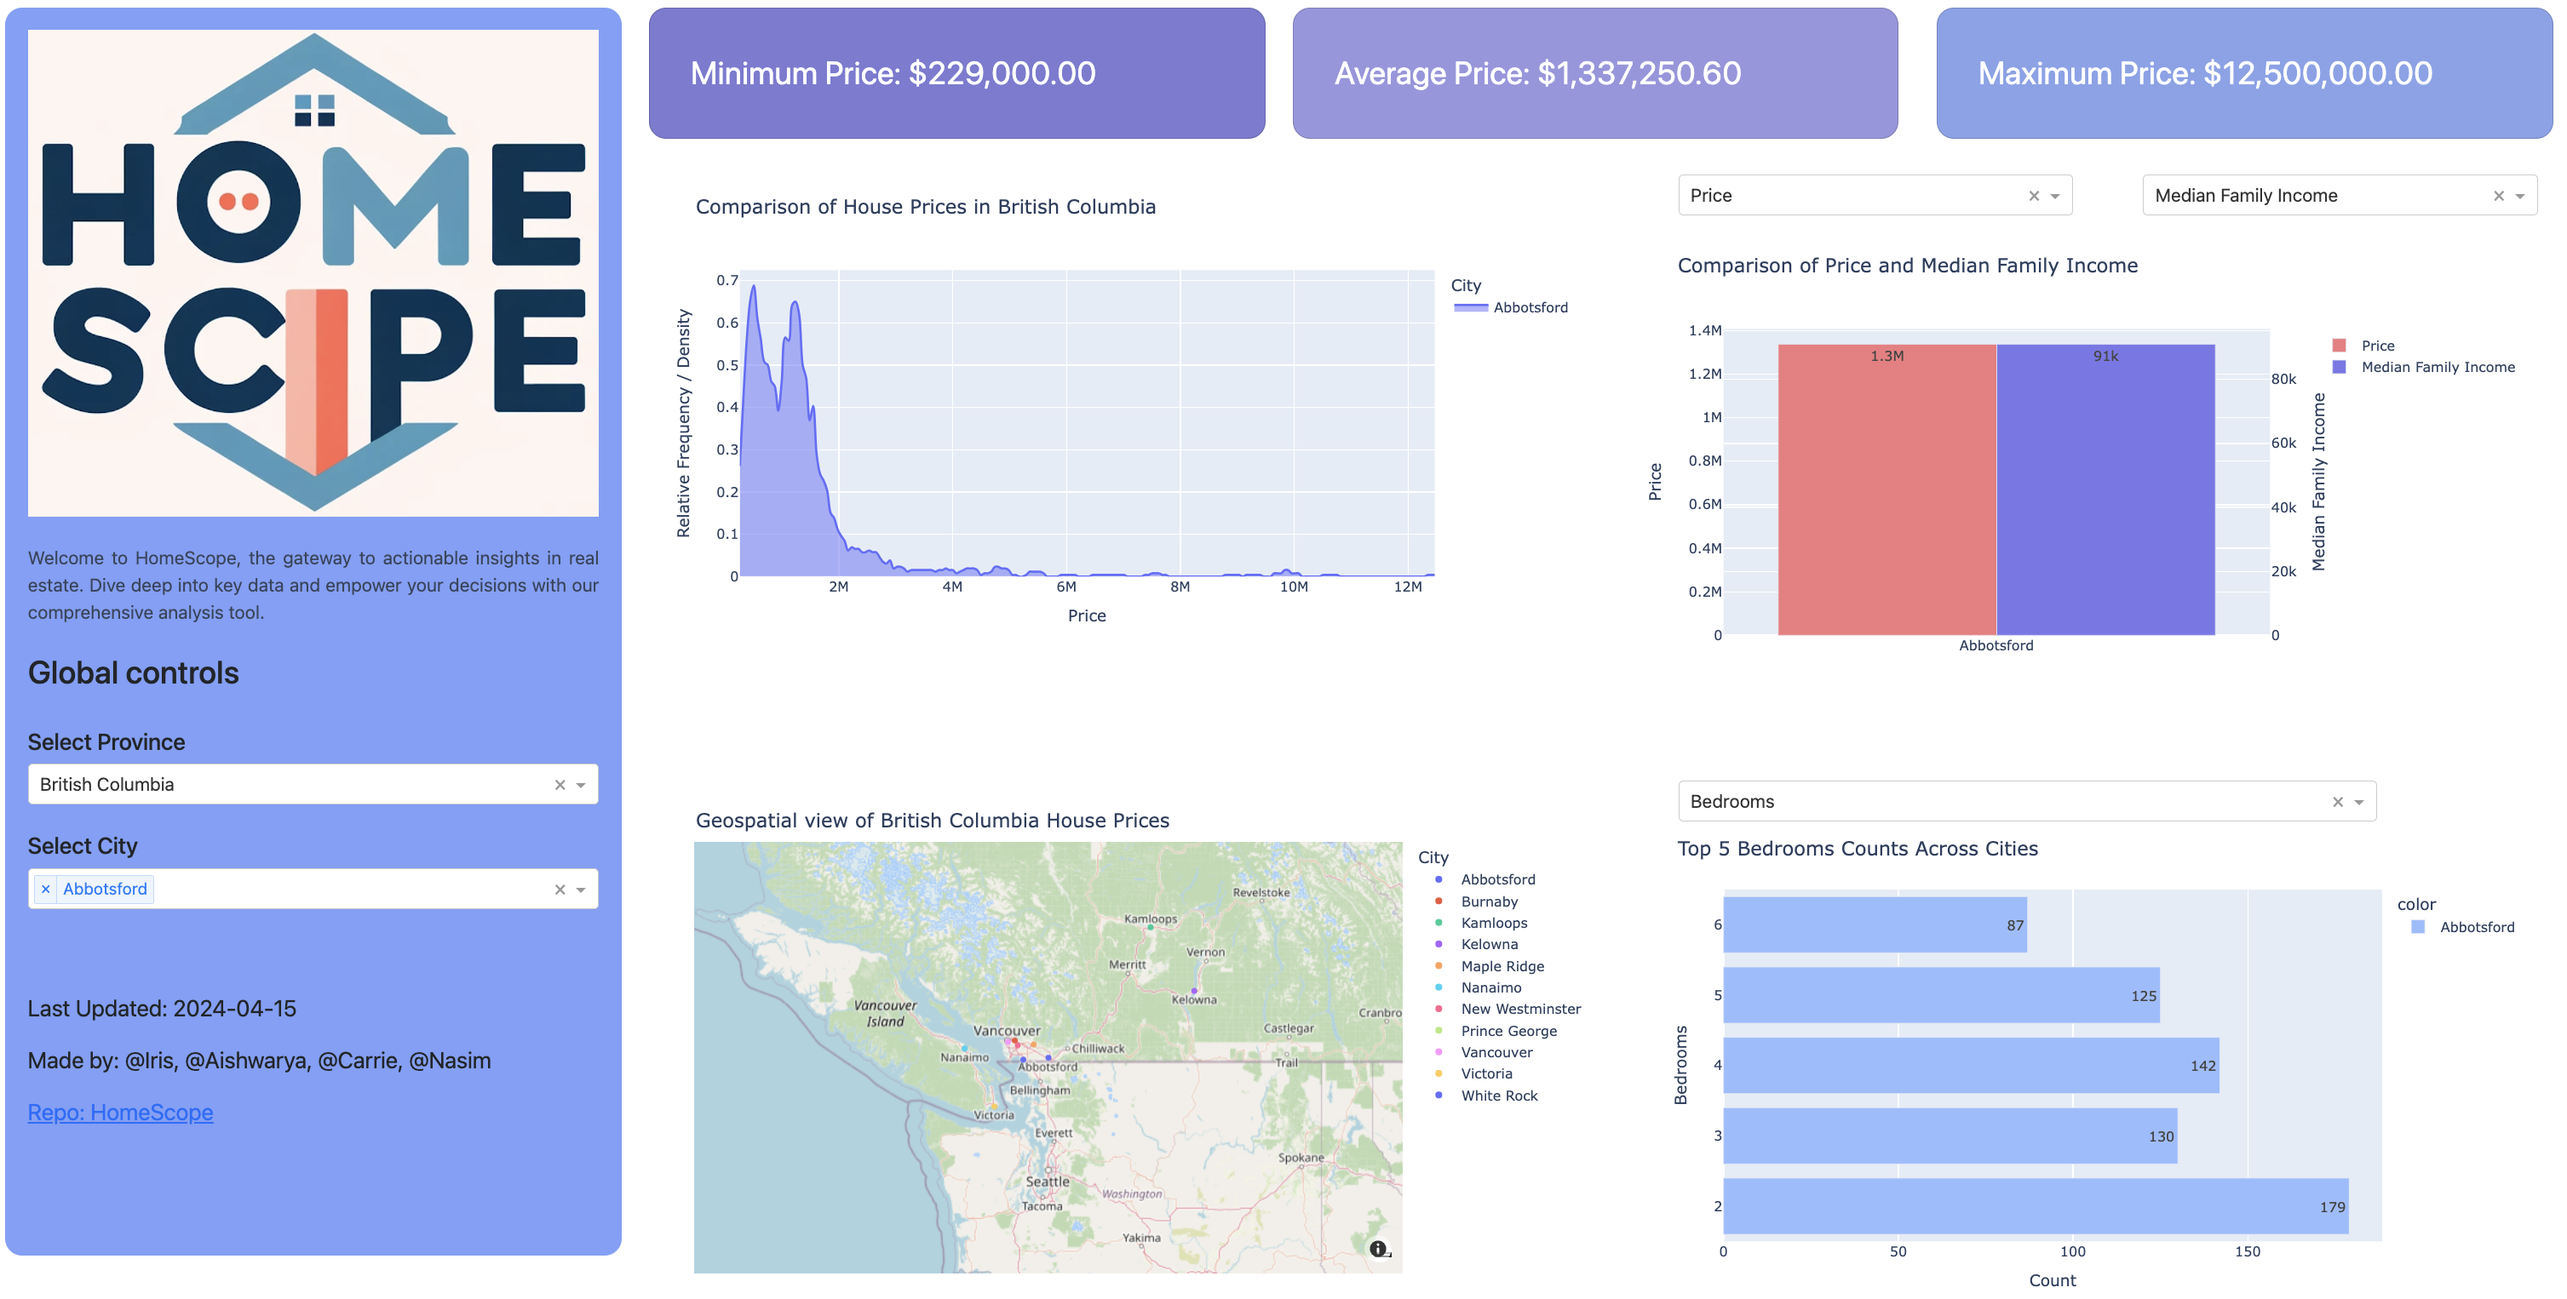
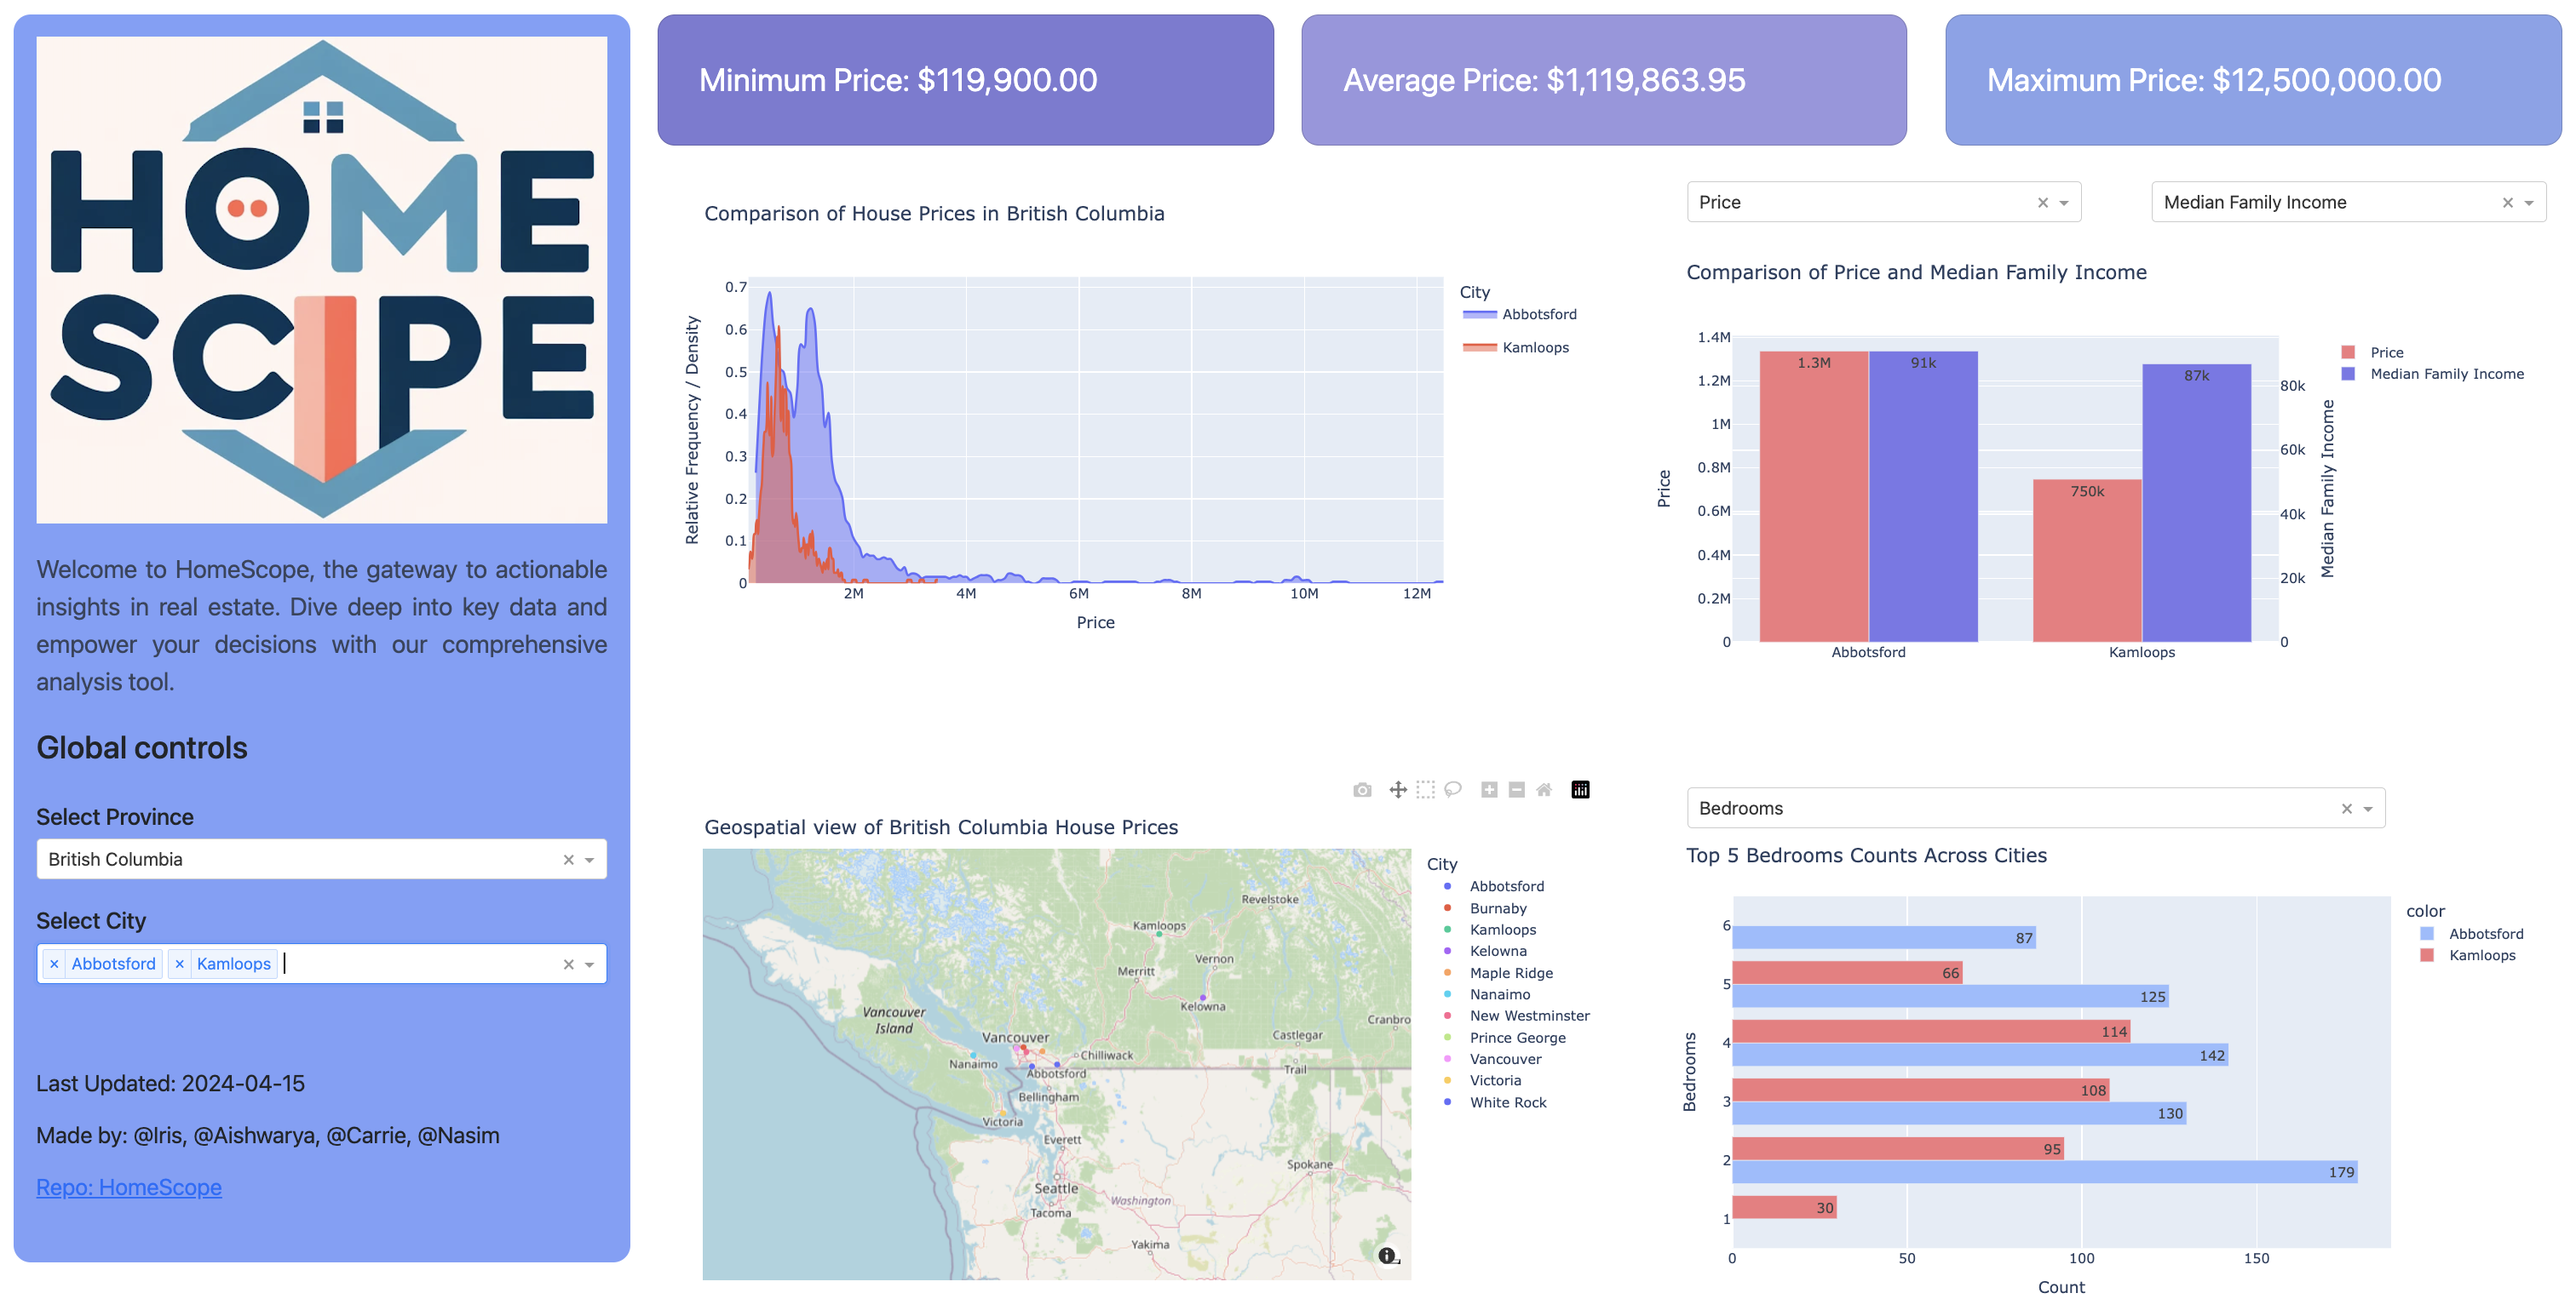
update the demo.gif and update the color style of bar plot

diff --git a/src/assets/custom_styles.css b/src/assets/custom_styles.css
@@ -12,7 +12,7 @@
 }
 
 .text-muted {
-    /* font-size: 18px;  */
+    font-size: 22px; 
     text-align: justify;
 }
 

diff --git a/src/callbacks.py b/src/callbacks.py
@@ -130,7 +130,7 @@ def update_bar_chart(province, cities, var3):
                                  .groupby('City')
                                  .head(5))
 
-    color_seq = ['#98BDFF', '#7DA0FA', '#F3797E', '#7978E9', '#4B49AC']
+    color_seq = ['#98BDFF', '#F3797E', '#7DA0FA', '#7978E9', '#4B49AC']
 
     fig = px.bar(
         y=top_5_per_city[var3], 

diff --git a/README.md b/README.md
@@ -19,7 +19,7 @@ Thank you for visiting the `HomeScope` project repository. This README file is a
 
 <img src="img/Homescope_img.png" width="500"/>
 
-## Who Are We?
+## Who Are We? {#who-are-we}
 
 Our `HomeScope` team, comprised of adept developers and data scientists, is driven by a shared passion for inclusivity and technology. Our expertise in data analysis underpins our commitment to this project.
 
@@ -47,7 +47,7 @@ Our `HomeScope` dashboard is an empowering tool that enables:
 -   Community-driven contributions to our database, fostering growth and inclusivity.
 -   The synthesis of valuable insights to facilitate well-informed real estate decisions.
 
-## What Are We Doing?
+## What Are We Doing? {#what-are-we-doing}
 
 ### The Dashboard
 
@@ -60,7 +60,7 @@ The current iteration of `HomeScope` boasts:
 -   An interactive map to visualize geographical data and price distributions.
 -   Comparative visualizations that convey a thorough market overview.
 
-### Dashboard Design (Milestone2)
+### Dashboard Design (Milestone3)
 
 <img src="img/milestone3.png" width="1000"/>
 
@@ -68,11 +68,11 @@ The current iteration of `HomeScope` boasts:
 
 We are poised to refine `HomeScope` further, enhancing its interactivity and user interface. Our ambitions include the integration of advanced predictive analytics and the expansion of our dataset to encompass global markets.
 
-## Get Support 
+## Get Support {#get-support}
 
 Encountered an issue or have a question? Feel free to [open an issue](#get-support) in this repository, and our team will be happy to assist you.
 
-## Collaboration
+## Collaboration {#collaboration}
 
 Our project is a collaborative endeavor, with each team member playing a pivotal role:
 
@@ -81,11 +81,11 @@ Our project is a collaborative endeavor, with each team member playing a pivotal
 -   [Carrie Yan](https://github.com/carrieyanyi)
 -   [Nasim Ghazanfari Nasrabadi](https://github.com/nassimgha)
 
-## Join Our Journey 
+## Join Our Journey {#join-our-journey}
 
 Dive into `HomeScope` and join us in forging a more transparent and inclusive real estate landscape.
 
-### Data Sources and Licensing 
+### Data Sources and Licensing {#data-sources-and-licensing}
 
 #### Data Sources
 
@@ -95,7 +95,7 @@ Our analysis is anchored in a robust dataset, `Canadian house prices for top cit
 
 The `HomeScope` codebase is MIT licensed, as found in the [LICENSE](LICENSE) in this repository.
 
-## Setup for Local Development 
+## Setup for Local Development {#setup-for-local-development}
 
 To run `HomeScope` locally:
 
@@ -149,11 +149,11 @@ This will launch the application, typically at <http://127.0.0.1:8050/> in your 
 
 Your contributions are what make the open-source community such an amazing place to learn, inspire, and create. Any contributions you make are **greatly appreciated**. Please read our [Contribution Guidelines](CONTRIBUTING.md) for details on our code of conduct and the process for submitting pull requests to us.
 
-## Thank You
+## Thank You {#thank-you}
 
 Thank you so much (Danke schön! Merci beaucoup!) for visiting our project. We hope you'll join us on this exciting journey to empower stakeholders in the real estate sector with HomeScope.
 
-## Glossary
+## Glossary {#glossary}
 
 -   README file: A document introducing an open project to the public and potential contributors, typically including installation, usage, and contribution information.
 -   Repository (or Repo): A collection of documents related to your project, where you create and save new code or content, often hosted on platforms like GitHub or Bitbucket.
